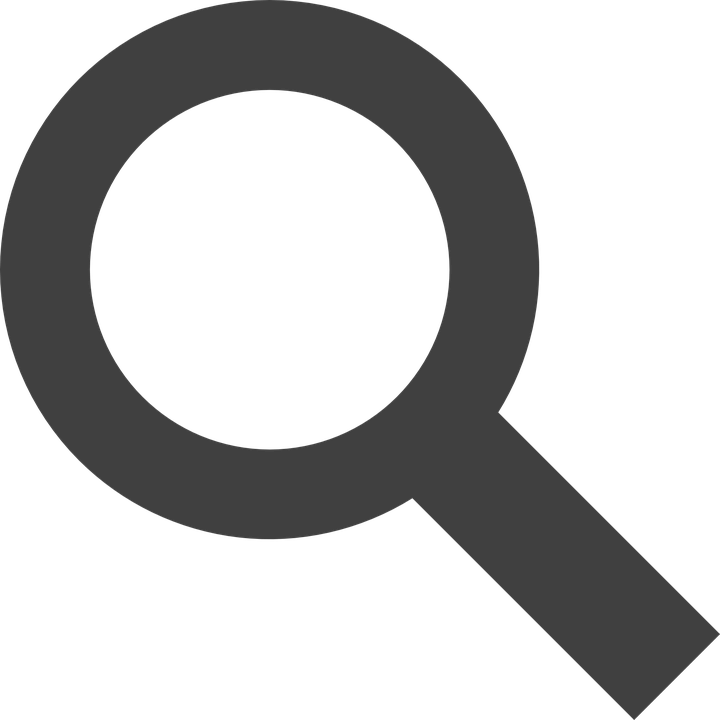
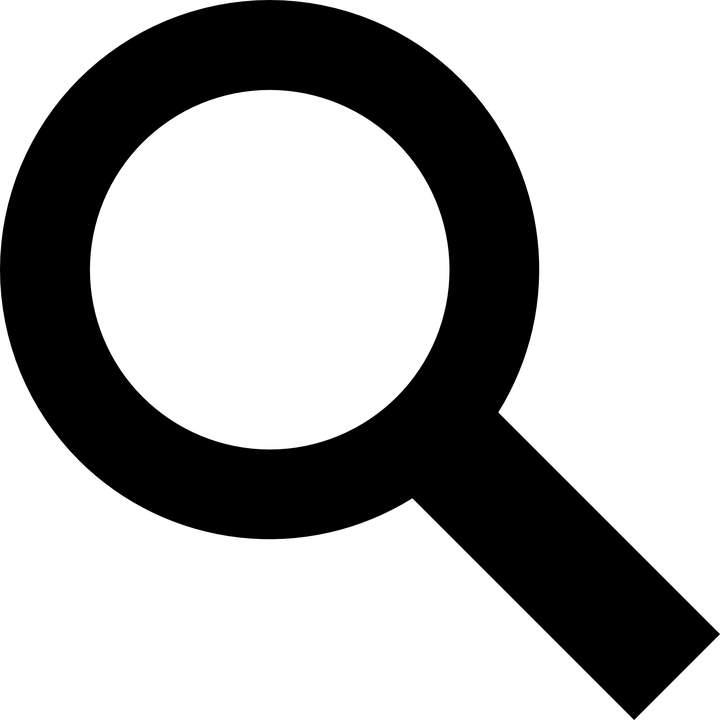
27/02/2025
Atualização da imagem da lupa

diff --git a/perfil.html b/perfil.html
@@ -77,21 +77,24 @@
         
     </header>
     
-    <div class="perfil">
-        <img class="foto-perfil" src="./imagens/foto perfil.png" alt="Foto do usuário">
-        <h2 class="nome-usuario">Maria Silva</h2>
-        <p class="profissao">Pintora</p>
-
-        <div class="avaliacao">
-            <span class="estrela" data-valor="1">★</span>
-            <span class="estrela" data-valor="2">★</span>
-            <span class="estrela" data-valor="3">★</span>
-            <span class="estrela" data-valor="4">★</span>
-            <span class="estrela" data-valor="5">★</span>
+    <section class="secao">
+        <div class="perfil">
+            <img class="foto-perfil" src="./imagens/foto perfil.png" alt="Foto do usuário">
+            <h2 class="nome-usuario">Maria Silva</h2>
+            <p class="profissao">Pintora</p>
+    
+            <div class="avaliacao">
+                <span class="estrela" data-valor="1">★</span>
+                <span class="estrela" data-valor="2">★</span>
+                <span class="estrela" data-valor="3">★</span>
+                <span class="estrela" data-valor="4">★</span>
+                <span class="estrela" data-valor="5">★</span>
+            </div>
+    
+            <p class="nota">Avaliação: <span id="nota-media">0.0</span>/5</p>
         </div>
-
-        <p class="nota">Avaliação: <span id="nota-media">0.0</span>/5</p>
-    </div>
+    </section>
+    
 
     <footer>
         <div class="footer-container">
